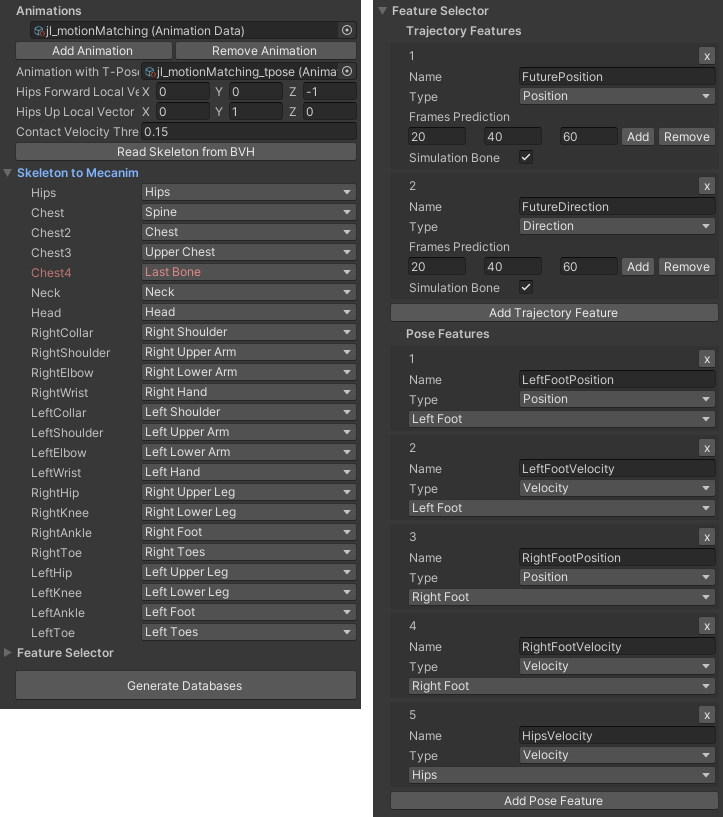
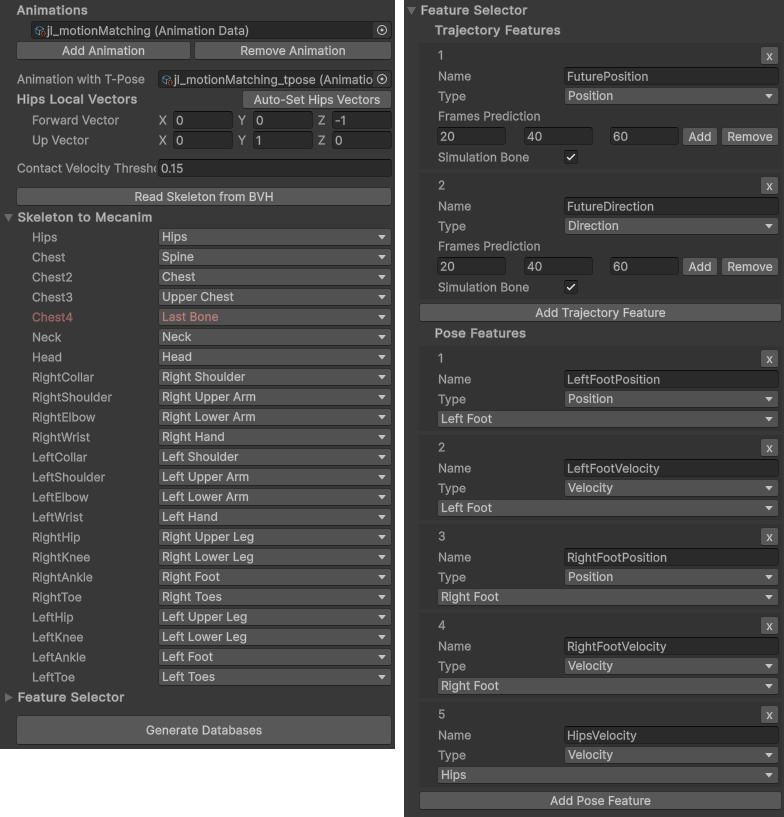
usability update

diff --git a/docs/roadmap.md b/docs/roadmap.md
@@ -6,15 +6,21 @@ Here's a list of upcoming features and improvements to enhance the capabilities 
 
 - [ ] **Enhanced Documentation**: Work on a more comprehensive guide explaining the intricacies of Motion Matching. For now, you can refer to the author's [master thesis](https://www.researchgate.net/publication/363377742_Motion_Matching_for_Character_Animation_and_Virtual_Reality_Avatars_in_Unity).
 
-- [ ] **Trajectory and Pose Feature Customization**: Implement a more user-friendly system for modifying trajectory features, and expand the types of pose features available.
+- [ ] **Pose Feature Customization**: Expand the types of pose features available.
 
 - [ ] **Motion Capture Library**: Record additional motion capture data and create default avatars for immediate use in projects.
 
-- [ ] **PathCharacterController Upgrades**: Revise the current hardcoded path tools in favor of a more flexible system, possibly using splines or other advanced techniques.
-
-- [ ] **Visual Debugging Tools**: Develop a suite of visual debugging tools for easier inspection and adjustment during development.
+- [ ] **Visual Debugging Tools**: Develop a suite of visual debugging tools for easier inspection and adjustment during development. Additionally, visualization of databases.
 
 - [ ] **Memory Optimization with Deep Learning**: Investigate the use of deep learning algorithms to reduce memory usage in the system.
+
+- [ ] **Unity 6 DOTS version**: Create a version of the package that utilizes Unity's Data-Oriented Technology Stack (DOTS) for improved performance.
+
+- [ ] **Inverse Kinematics Integration**: Integrate inverse kinematics (IK) for more realistic character interactions.
+
+- [ ] **Event System**: Implement an event system for triggering actions based on specific conditions in the animation.
+
+- [ ] **Networked Motion Matching**: Develop a networked version of Motion Matching for multiplayer games.
 
 ## Completed Features
 
@@ -23,5 +29,9 @@ Here's a list of upcoming features and improvements to enhance the capabilities 
 - [x] **Unity Animation System Integration**: Added tools and methods for seamless integration with Unity's native animation system. This allows, for example, the use of Unity's animation system for the upper body while utilizing Motion Matching for the lower body.
 
 - [x] **Unity Package Structure**: Successfully restructured the project into a Unity package for easier distribution and integration.
+
+- [x] **Trajectory Customization**: Implement a more user-friendly system for modifying trajectory features.
+
+- [x] **PathCharacterController Upgrades**: Revise the current hardcoded path tools in favor of a more flexible system, possibly using splines or other advanced techniques.
 
 Your contributions and suggestions are always welcome as we continue to develop this project into a comprehensive Motion Matching solution for Unity.

diff --git a/docs/basics/character.md b/docs/basics/character.md
@@ -11,11 +11,11 @@ Animating a character using Motion Matching involves coordinating between the Ch
 - First, generate an animation database (*MMData*) by following the [previous section](animation_database.md) on creating *MMData*.
 
 	!!! tip
-		You can use the demo scene at ``Scenes/JLTest/JLSceneTest.unity`` as a template.
+		You can use the demo scene at ``Scenes/00_Basic/ExampleSimpleMMController.unity`` as a template.
 
 ### Add Character Controller
 
-- Create an empty GameObject and attach a Character Controller component to it. The available options are currently ``SpringCharacterController`` or ``PathCharacterController``. Make sure to reference the ``MotionMatchingController`` (to be created in step 3) in the Motion Matching field. Keep the feature names unchanged unless you've also modified them in your custom *MMData*.
+- Create an empty GameObject and attach a Character Controller component to it. Make sure to reference the ``MotionMatchingController`` (to be created in step 3) in the Motion Matching field. Keep the feature names unchanged unless you've also modified them in your custom *MMData*.
 
 ### Add Motion Matching Controller
 
@@ -23,7 +23,7 @@ Animating a character using Motion Matching involves coordinating between the Ch
 
 ### Add Avatar and Renderer
 
-- Insert an avatar into the scene. As a reference, you can use ``Graphics/Models/Joe/Joe.prefab``, which should be imported as a humanoid. Attach a ``MotionMatchingSkinnedMeshRenderer`` component to the avatar and reference the ``MotionMatchingController`` from step 3.
+- Insert an avatar into the scene. As a reference, you can use ``Assets/Models/Joe/Joe.prefab``, which should be imported as a humanoid. Attach a ``MotionMatchingSkinnedMeshRenderer`` component to the avatar and reference the ``MotionMatchingController`` from step 3.
 
 ### Test Animation
 

diff --git a/docs/basics/animation_database.md b/docs/basics/animation_database.md
@@ -27,12 +27,13 @@ Animation databases hold the animation sets that the Motion Matching system util
 
 ### Configure Skeleton
 
-- Identify the local vectors pointing forward and upward for the hips/root joint. For example, in the following image, the forward local vector is the Z-axis (0, 0, 1) and the up local vector is Y-axis (0, 1, 0):
+- Identify the world space coordinates of the hips/root joint local forward and up vectors of your *.bvh* skeleton. You can use the `Auto-Set Hips vectors` button to automatically set these vectors based on the orientation of the character. First, click this button, then you will be redirected to a scene with the skeleton in your T-Pose *.bvh* file. You can then rotate the character so its forward and up vectors align with the world space axes. Once you are satisfied with the orientation, click the `Set Hips Local Vectors` button to save the orientation
+For example, in the following image, the character has been rotated to face the forward world axis. The final forward hips local vector is (0, 0, -1) and the up local vector is (0, 1, 0):
 
 	![](../assets/media/local_forward_hips.PNG)
 	
 	!!! note
-		Ensure your *Gizmo handle position toggle* is set to local space. [More Info](https://docs.unity3d.com/Manual/PositioningGameObjects.html).
+		You can click `Set Hips Local Vectors` to automatically save the local vectors. However, if you want to check it manually, ensure your *Gizmo handle position toggle* is set to local space. [More Info](https://docs.unity3d.com/Manual/PositioningGameObjects.html).
 
 		The forward vector should correspond to the *.bvh* file, not your virtual character.
 

diff --git a/docs/samples/advanced/tags.md b/docs/samples/advanced/tags.md
@@ -3,7 +3,7 @@
 !!! info
 	To import the sample, go to the Package Manager, select **Motion Matching**, and then navigate to **Samples > Examples**. Click on **Import**.
 
-This sample is located at `Examples/Scenes/JLTest/JLSceneTags.unity`. It builds upon the [third person character controller](third_person.md) example, incorporating the `TagSwitchHelper` component to demonstrate the usage of tags in Motion Matching.
+This sample is located at `Examples/Scenes/01_Advanced/ExampleTags.unity`. It builds upon the [third person character controller](third_person.md) example, incorporating the `TagSwitchHelper` component to demonstrate the usage of tags in Motion Matching.
 
 ## Key Changes
 
@@ -14,4 +14,4 @@ This sample is located at `Examples/Scenes/JLTest/JLSceneTags.unity`. It builds 
 Press the play button to start the scene. Initially, the character will only be able to walk. To toggle the tag query on or off, press **T** on the keyboard or **A** on an Xbox controller. When the query is disabled, the character will be free to utilize the full range of animations in the database, allowing it to walk or run. To restrict the character to an idle state, change the query expression to `idle`. If query expressions are not enabled, press **T** to enable them, and the character will not be able to move
 
 !!! note
-	For a comprehensive guide on how tags work in conjunction with Motion Matching, please refer to [this section](../functionality/tags.md).
+	For a comprehensive guide on how tags work in conjunction with Motion Matching, please refer to [this section](../../advanced/tags.md).

diff --git a/docs/basics/using_simple_motion_matching_controller.md b/docs/basics/using_simple_motion_matching_controller.md
@@ -1,0 +1,18 @@
+# Using the Simple MM Controller
+
+We provide a fast way to start using this package when no advanced configuration is needed and you wish to control Motion Matching by script. You can quickly get an animated avatar by using the `SimpleMMController` script.
+!!! example
+    To explore an example scene, access the Package Manager, select the **Motion Matching** package, and import the **Examples** sample. The sample scene will be located at `Samples/Motion Matching/[version]/Examples/Scenes/00_Basic/ExampleSimpleMMController.unity`.
+	
+**Getting Started:**
+
+1.  **Import the Samples:** Import the package's example samples through the Package Manager.
+2.  **Add the Prefab:** Drag and drop the `Samples/Motion Matching/[version]/Examples/Assets/Prefabs/SimpleMMController` prefab into your scene.
+
+    This prefab contains the following components on its GameObjects:
+
+    * **Root GameObject:** `SimpleMMController` script (the main interface for controlling the character).
+    * **Child GameObjects:** Contain a `CharacterController`, a `MotionMatchingController`, and the animated avatar.
+
+3.  **Script Interaction:** Obtain a reference to the `SimpleMMController` script from your custom script.
+4.  **Control Velocity:** Use the `#!csharp SetVelocity(Vector2 velocity)` public function to set the desired direction and speed of the avatar's movement. The `Vector2` input represents the velocity in the horizontal plane (X and Z axes).

diff --git a/docs/samples/advanced/unity_animation.md b/docs/samples/advanced/unity_animation.md
@@ -3,7 +3,7 @@
 !!! info
 	To import this sample, navigate to the Package Manager, select **Motion Matching**, and then go to **Samples > Examples** and click on **Import**.
 
-You can find this sample at `Examples/Scenes/JLTest/JLSceneUnityAnimationIntegration.unity`. This sample serves as an extension of the [third person character controller](third_person.md) by integrating it with Unity's `Animator` component.
+You can find this sample at `Examples/Scenes/01_Advanced/ExampleUnityAnimationIntegration.unity`. This sample serves as an extension of the [third person character controller](third_person.md) by integrating it with Unity's `Animator` component.
 
 ## Key Changes
 
@@ -15,4 +15,4 @@ You can find this sample at `Examples/Scenes/JLTest/JLSceneUnityAnimationIntegra
 Press play to see how the `Animator` component animates the upper body of the character, while Motion Matching takes care of the lower body and locomotion. You can also remove the reference to the Avatar Mask to see how the system automatically blends into a full-body Motion Matching pose.
 
 !!! note
-	For a comprehensive understanding of how Unity's animation system and Motion Matching are integrated, please refer to [this section](../functionality/unity_animator.md).
+	For a comprehensive understanding of how Unity's animation system and Motion Matching are integrated, please refer to [this section](../../advanced/unity_animator.md).

diff --git a/docs/basics/using_splines.md b/docs/basics/using_splines.md
@@ -1,0 +1,22 @@
+# Using Splines to drive Motion Matching
+
+It is also possible to drive Motion Matching using splines. This method allows you to create more complex and dynamic paths for your characters to follow. The `SplineCharacterController` script is provided to help you achieve this.
+
+!!! example
+    To explore an example scene, access the Package Manager, select the **Motion Matching** package, and import the **Examples** sample. The sample scene will be located at `Samples/Motion Matching/[version]/Examples/Scenes/00_Basic/ExampleSplines.unity`.
+	
+**Getting Started:**
+
+1. Add the `SplineCharacterController` script to a GameObject.
+2. Create a spline using the `Spline` component. Visit the [Spline documentation](https://docs.unity3d.com/Packages/com.unity.splines@2.7) for more information.
+!!! tip
+	Splines can be modified at runtime to create dynamic paths for your characters to follow.
+3. Assign the spline to the `SplineCharacterController` script.
+4. Assign a `MotionMatchingController` to the `SplineCharacterController` script.
+5. Control the character's velocity by setting the `Speed` property of the `SplineCharacterController` script.
+
+!!! note
+	Feel free to modify the `SplineCharacterController` script to suit your needs. For example, you can add a method to set the character's speed based on the distance to the next waypoint.
+	
+	
+![](../assets/media/splines.png)

diff --git a/docs/basics/character_controller.md b/docs/basics/character_controller.md
@@ -1,3 +1,8 @@
+Character controllers are components that control the character's movement. They are responsible for defining the trajectory of a character to a specific target. The character controller usually receives the input from the user or a path/spline and translates it into trajectories.
+
 !!! warning
 	We are currently working on simplifying the definition of new character controllers. We will update the documentation when ready.
-	However, feel free to read how ``SpringCharacterController`` and ``PathCharacterController`` components are implemented.
+	However, feel free to read how ``SpringCharacterController``, ``PathCharacterController`` and ``SplineCharacterController`` components are implemented.
+	
+!!! tip
+	When fine-control is not needed. You can use the ``SimpleMMController`` component to control the character. This component is a wrapper around the ``CharacterController`` and ``MotionMatchingController`` components. It provides a simple interface to control the character's movement. Visit the [Simple MM Controller](using_simple_motion_matching_controller.md) page for more information.

diff --git a/docs/samples/basic/simple_motion_matching_controller.md b/docs/samples/basic/simple_motion_matching_controller.md
@@ -1,0 +1,9 @@
+# Simple Motion Matching Controller Sample
+
+!!! info
+	To access this sample, first open the Package Manager, select **Motion Matching**, and then import the examples by navigating to **Samples > Examples** and clicking **Import**.
+
+The sample can be located at `Examples/Scenes/00_Basic/ExampleSimpleMMController.unity`. This sample showcases how to use a `SimpleMMController` to drive a character using Motion Matching with a custom script. You will find in the scene's hierarchy two GameObjects that can be enabled and disabled to control whether the character's trajectory is computed randomly or using the Keyboard ASWD keys. Take a look at these scripts and the `SimpleMMController` to understand how to use Motion Matching in your project.
+
+!!! note
+	See [SimpleMMController](../../basics/using_simple_motion_matching_controller.md) for more information on how to use the `SimpleMMController`.

diff --git a/docs/quick_start.md b/docs/quick_start.md
@@ -4,7 +4,7 @@ Follow these steps to get started with the Motion Matching package for Unity.
 
 ## Installation Steps
 
-1. Ensure you have **Unity 2021.2+** installed (untested on other versions).
+1. Ensure you have **Unity 6+** installed (untested on other versions).
 
 2. Open the Unity Editor and navigate to **Window > Package Manager**.
 
@@ -20,7 +20,7 @@ Follow these steps to get started with the Motion Matching package for Unity.
 
 5. *[Optional]* In the Package Manager, click on **Motion Matching**, then import the example scenes by selecting **Samples > Examples > Import**.
 
-6. *[Optional]* Go to ``Examples/Scenes/JLTest`` in the Project Window to explore the sample scenes.
+6. *[Optional]* Go to ``Samples/Motion Matching/[version]/Examples/Scenes/`` in the Project Window to explore the sample scenes.
 
 ## Project Overview
 

diff --git a/docs/samples/advanced/third_person.md b/docs/samples/advanced/third_person.md
@@ -3,7 +3,7 @@
 !!! info
 	To access this sample, first open the Package Manager, select **Motion Matching**, and then import the examples by navigating to **Samples > Examples** and clicking **Import**.
 
-The sample can be located at `Examples/Scenes/JLTest/JLSceneThirdPerson.unity`. This sample showcases human locomotion animated using the Motion Matching system. It is designed to work with Unity's new action-based Input System and is compatible with both keyboard and Xbox controllers.
+The sample can be located at `Examples/Scenes/01_Advanced/ExampleThirdPerson.unity`. This sample showcases human locomotion animated using the Motion Matching system. It is designed to work with Unity's new action-based Input System and is compatible with both keyboard and Xbox controllers.
 
 ## Key Components
 

diff --git a/docs/samples/basic/splines.md b/docs/samples/basic/splines.md
@@ -1,0 +1,9 @@
+# Splines Sample
+
+!!! info
+	To access this sample, first open the Package Manager, select **Motion Matching**, and then import the examples by navigating to **Samples > Examples** and clicking **Import**.
+
+The sample can be located at `Examples/Scenes/00_Basic/ExampleSplines.unity`. This sample showcases how to use [Splines](https://docs.unity3d.com/Packages/com.unity.splines@2.7) to drive a character using Motion Matching. You will find in the scene's hierarchy four example GameObjects with all necessary scripts to use Splines with Motion Matching. 
+
+!!! note
+	See [Splines](../../basics/using_splines.md) for more information.
